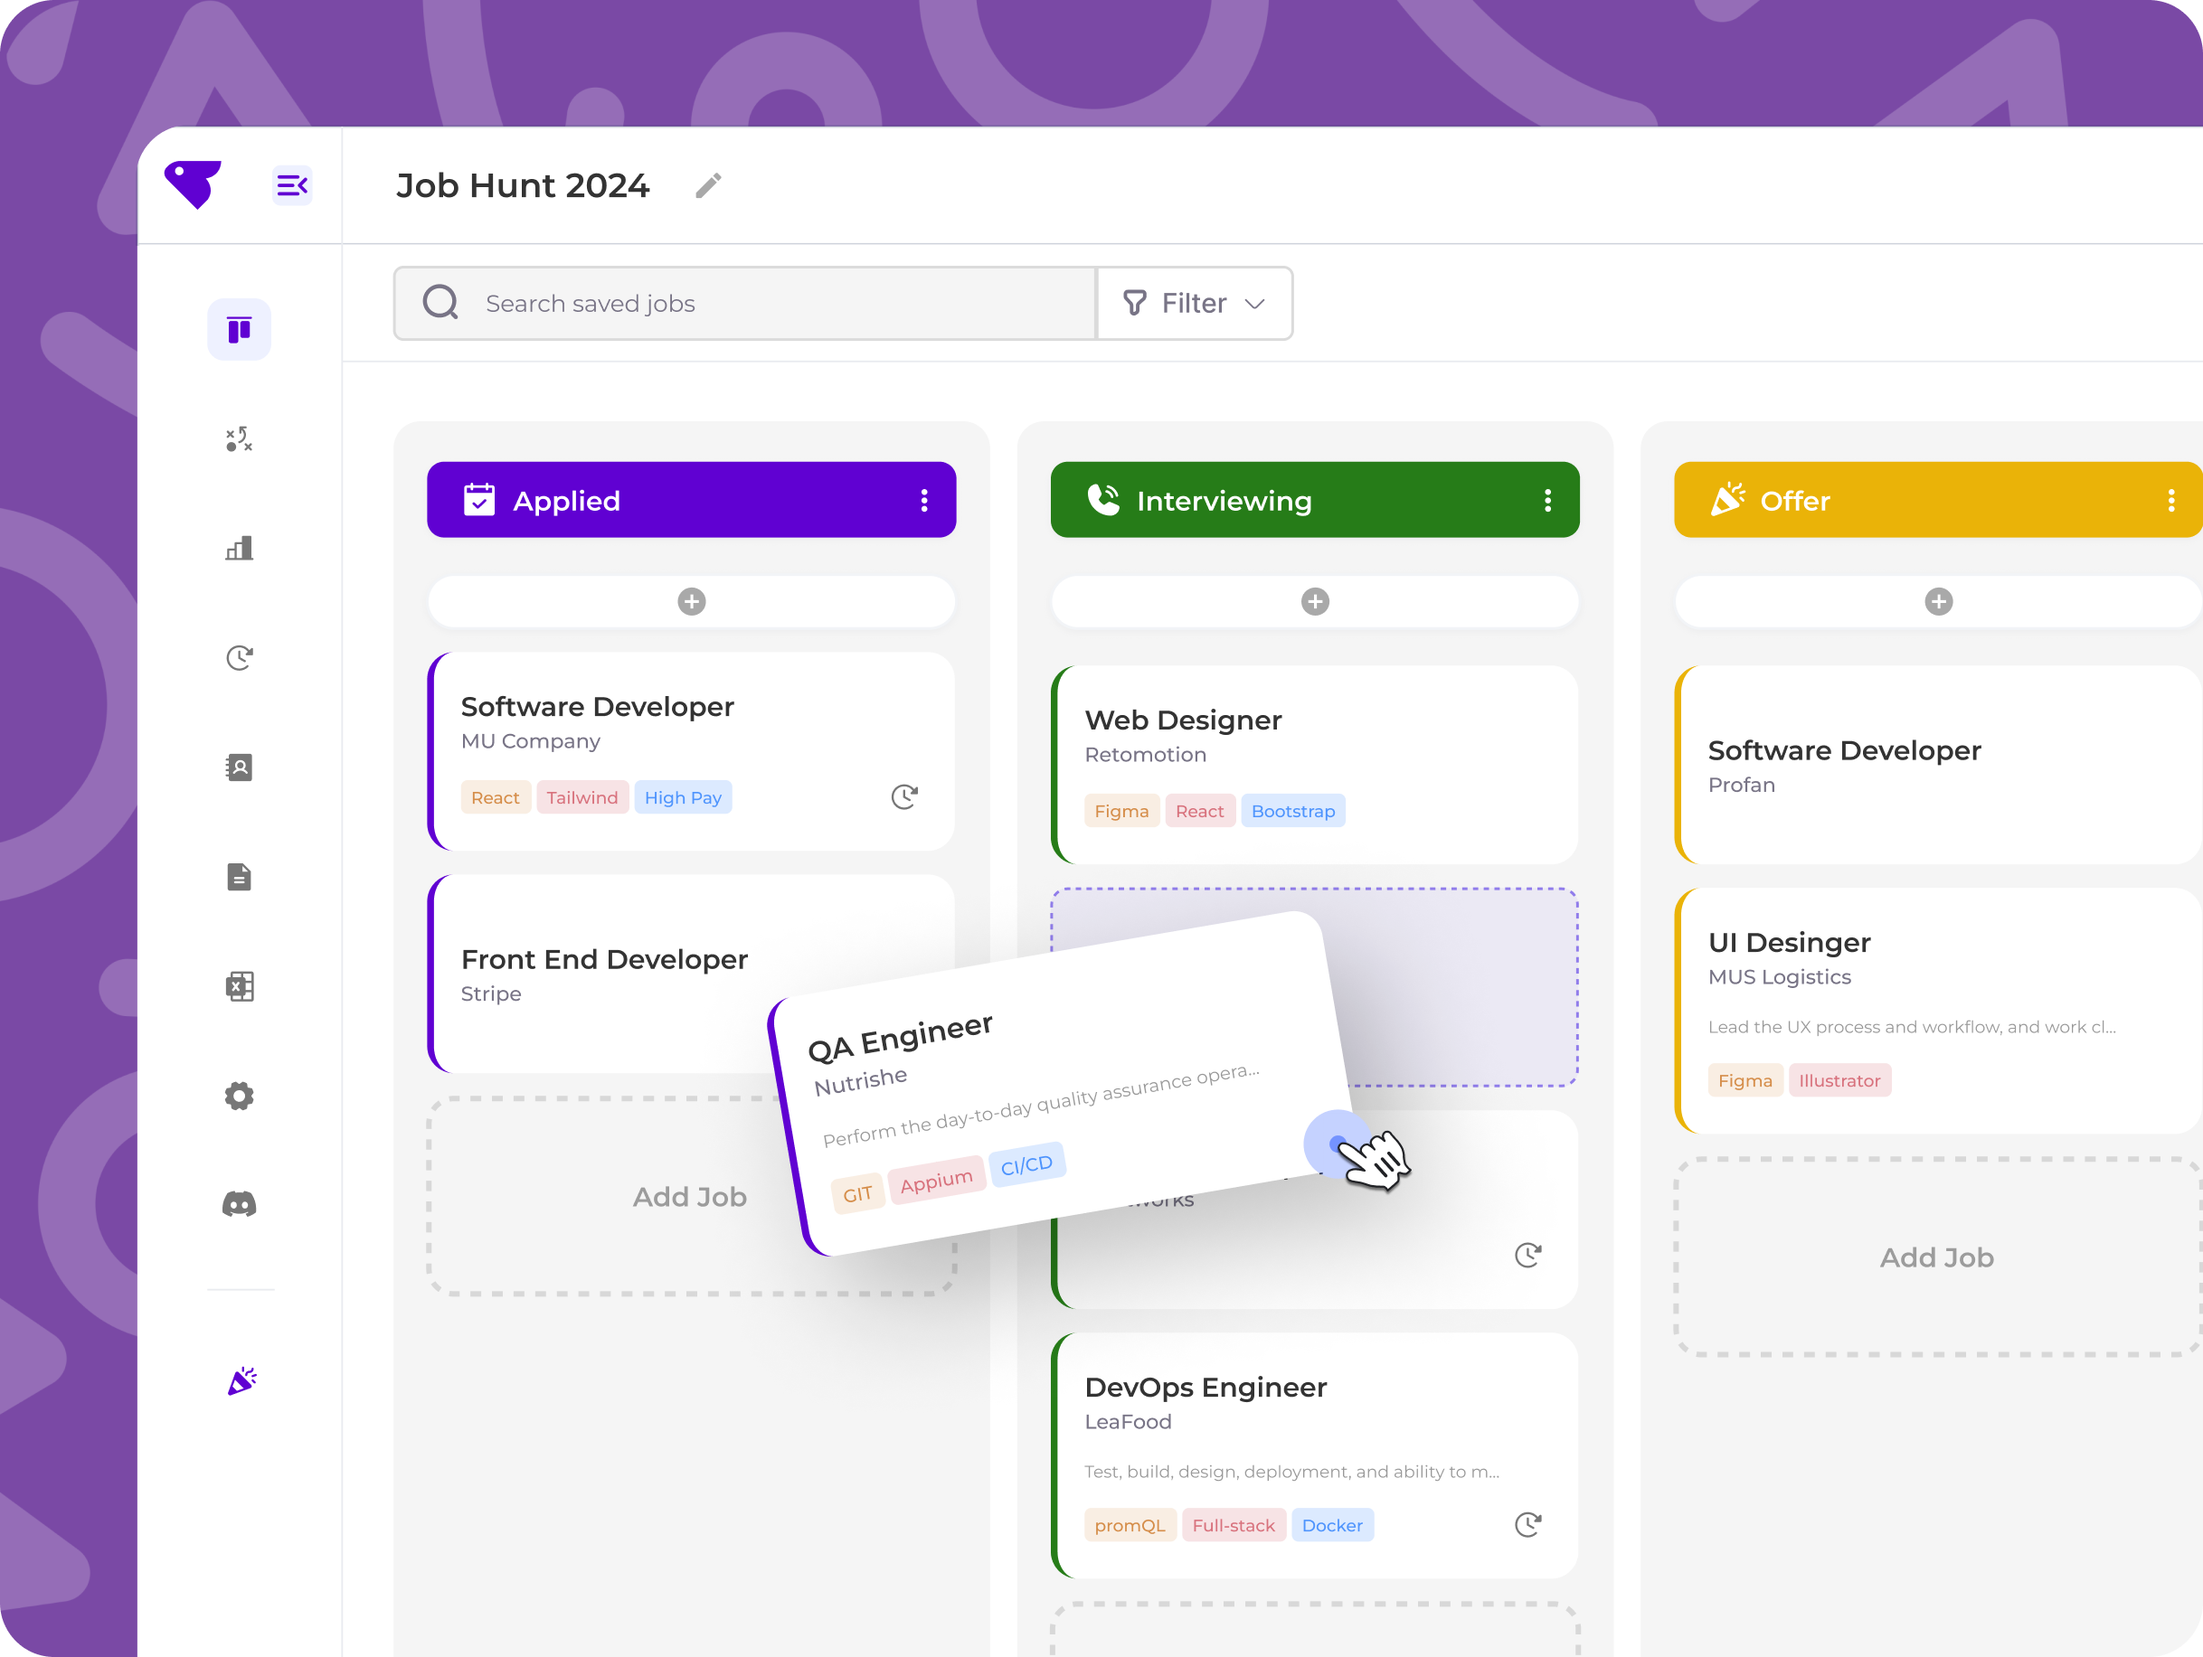
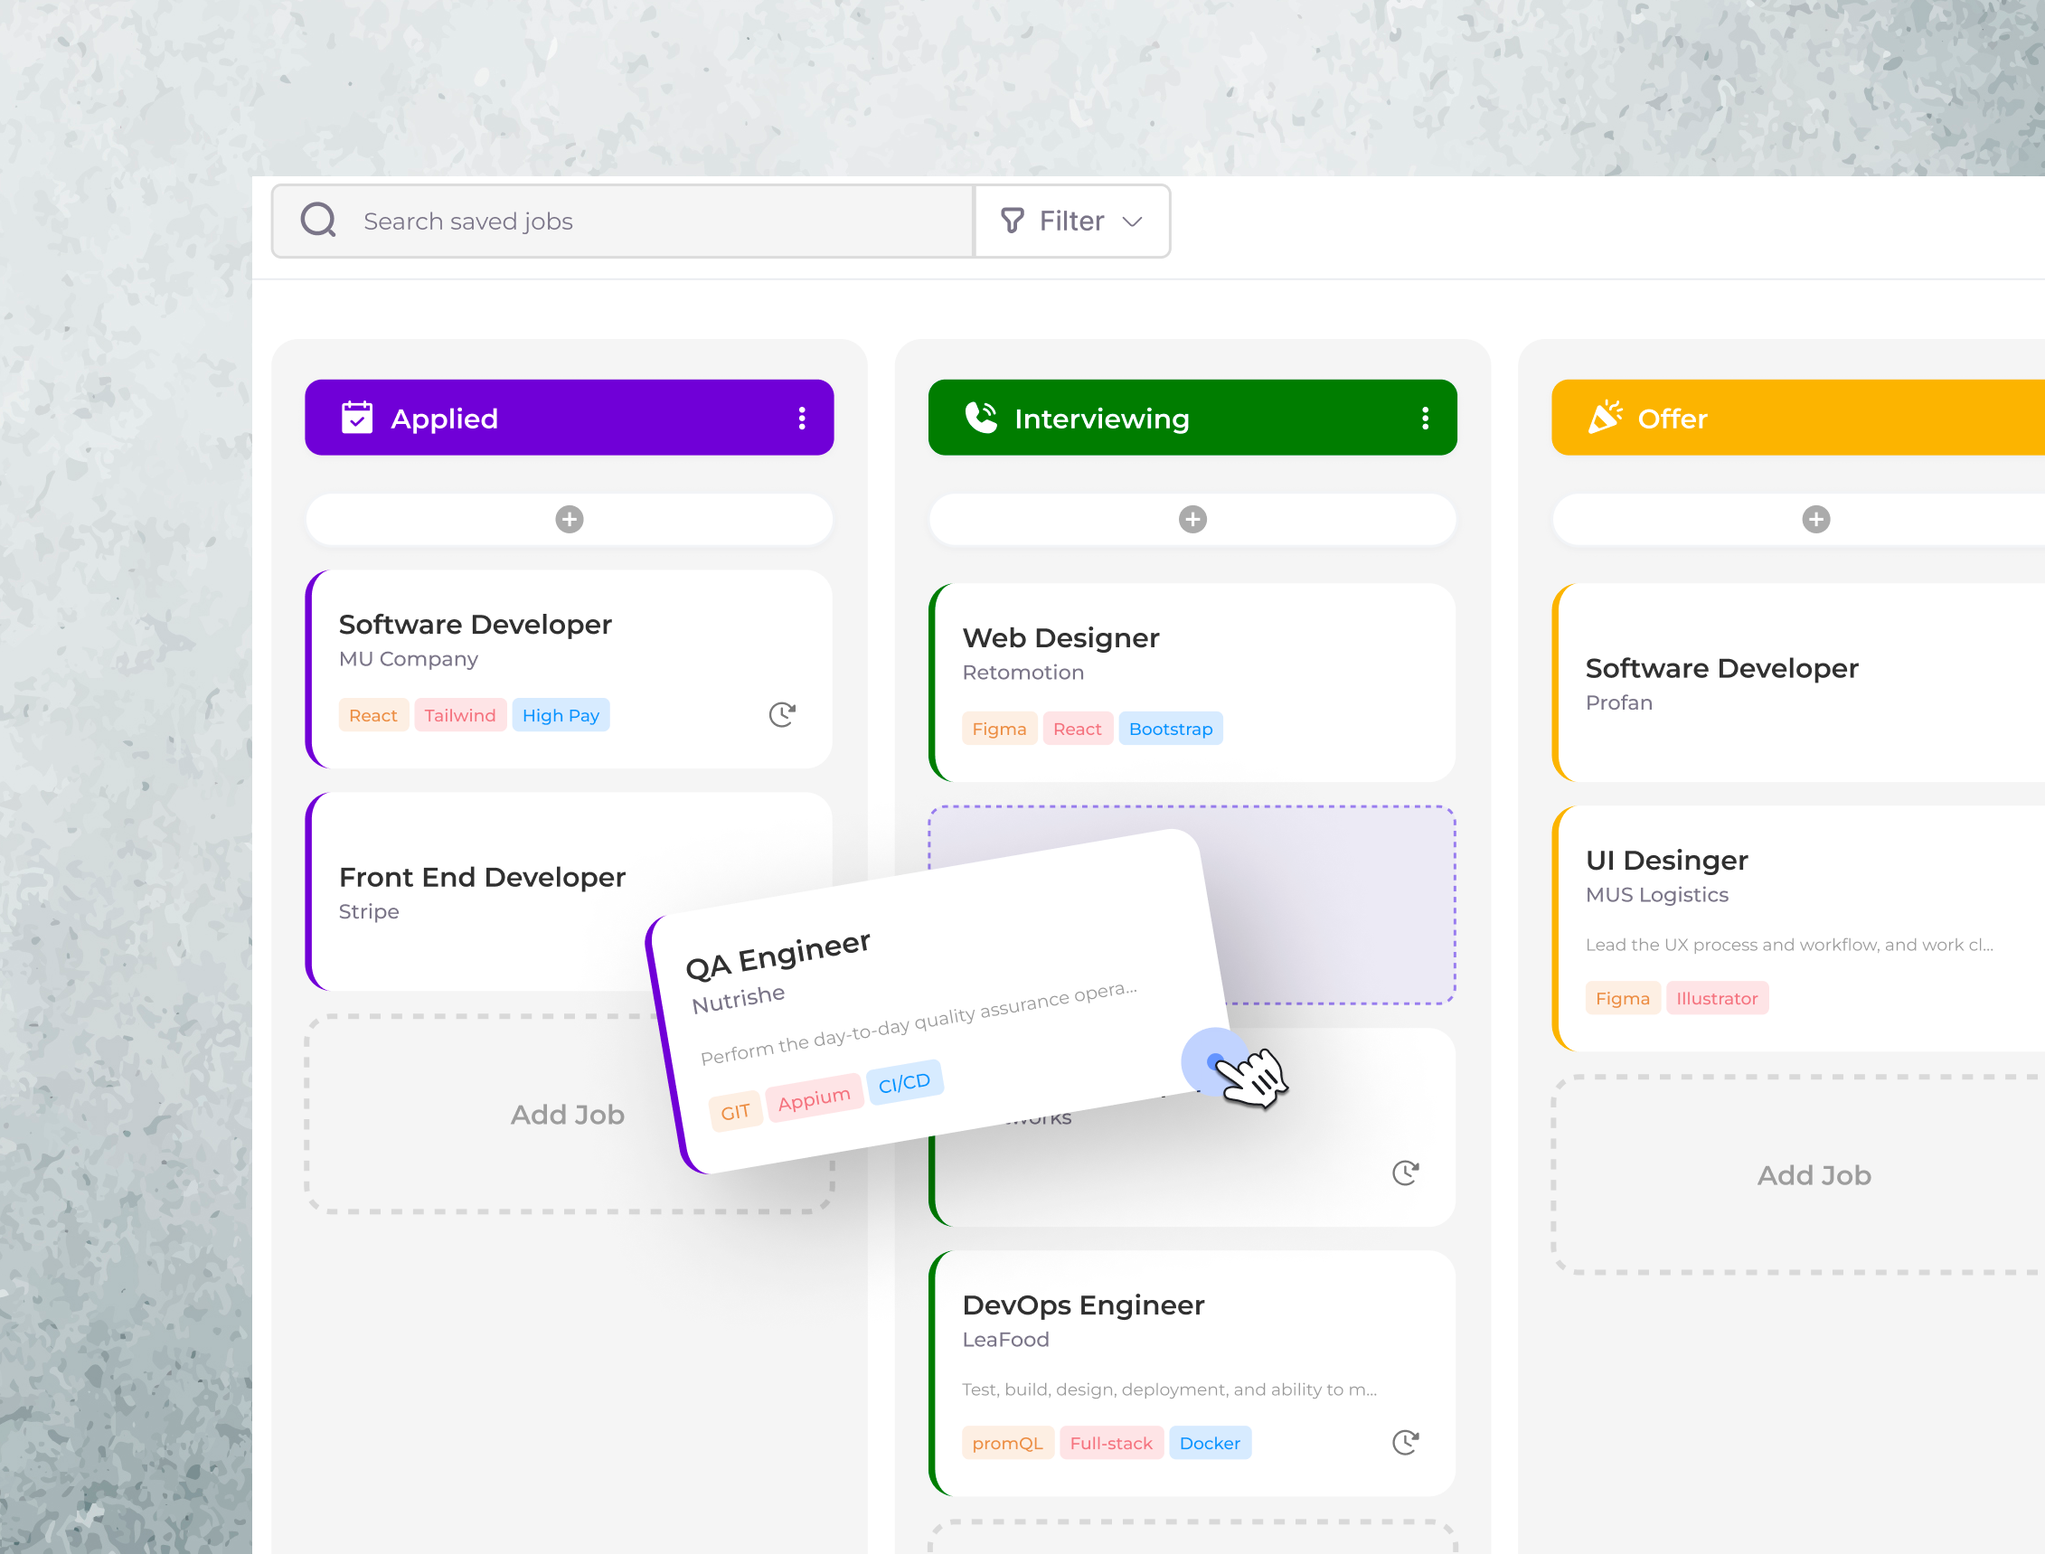
homepage pics

diff --git a/src/Front/pages/Homepage.jsx b/src/Front/pages/Homepage.jsx
@@ -7,7 +7,10 @@ function Homepage() {
   return (
     <>
       <Title />
-      <img src="front_pic.webp" className="mt-20 mb-20 rounded-2xl" />
+      <img
+        src="front_pic.png"
+        className="mt-4 mb-4 rounded-2xl w-[80%] mx-auto"
+      />
       <HomeFeatures />
       <GetStarted />
     </>
